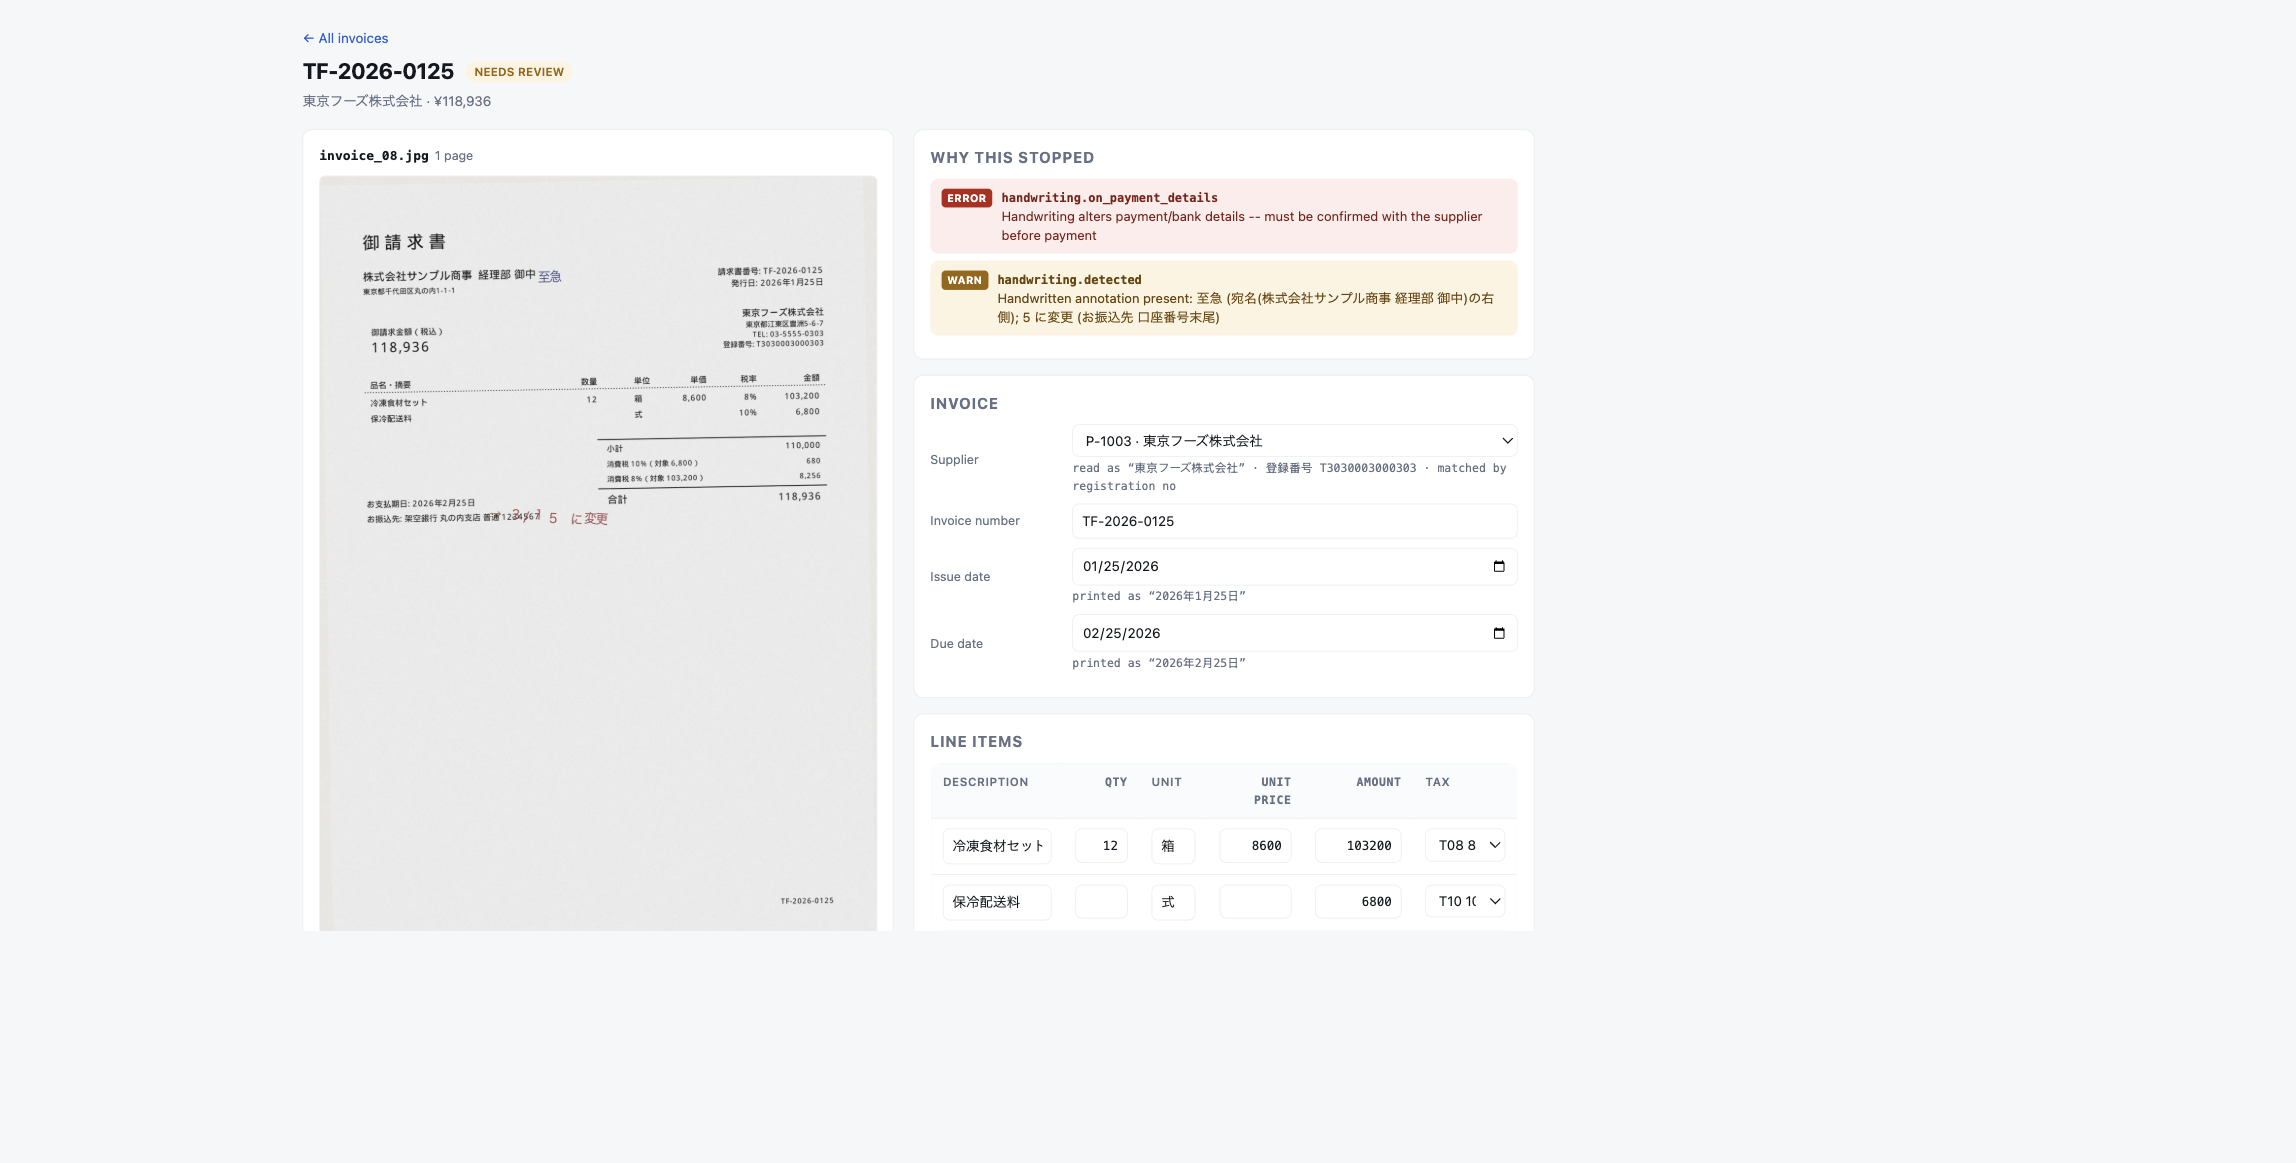
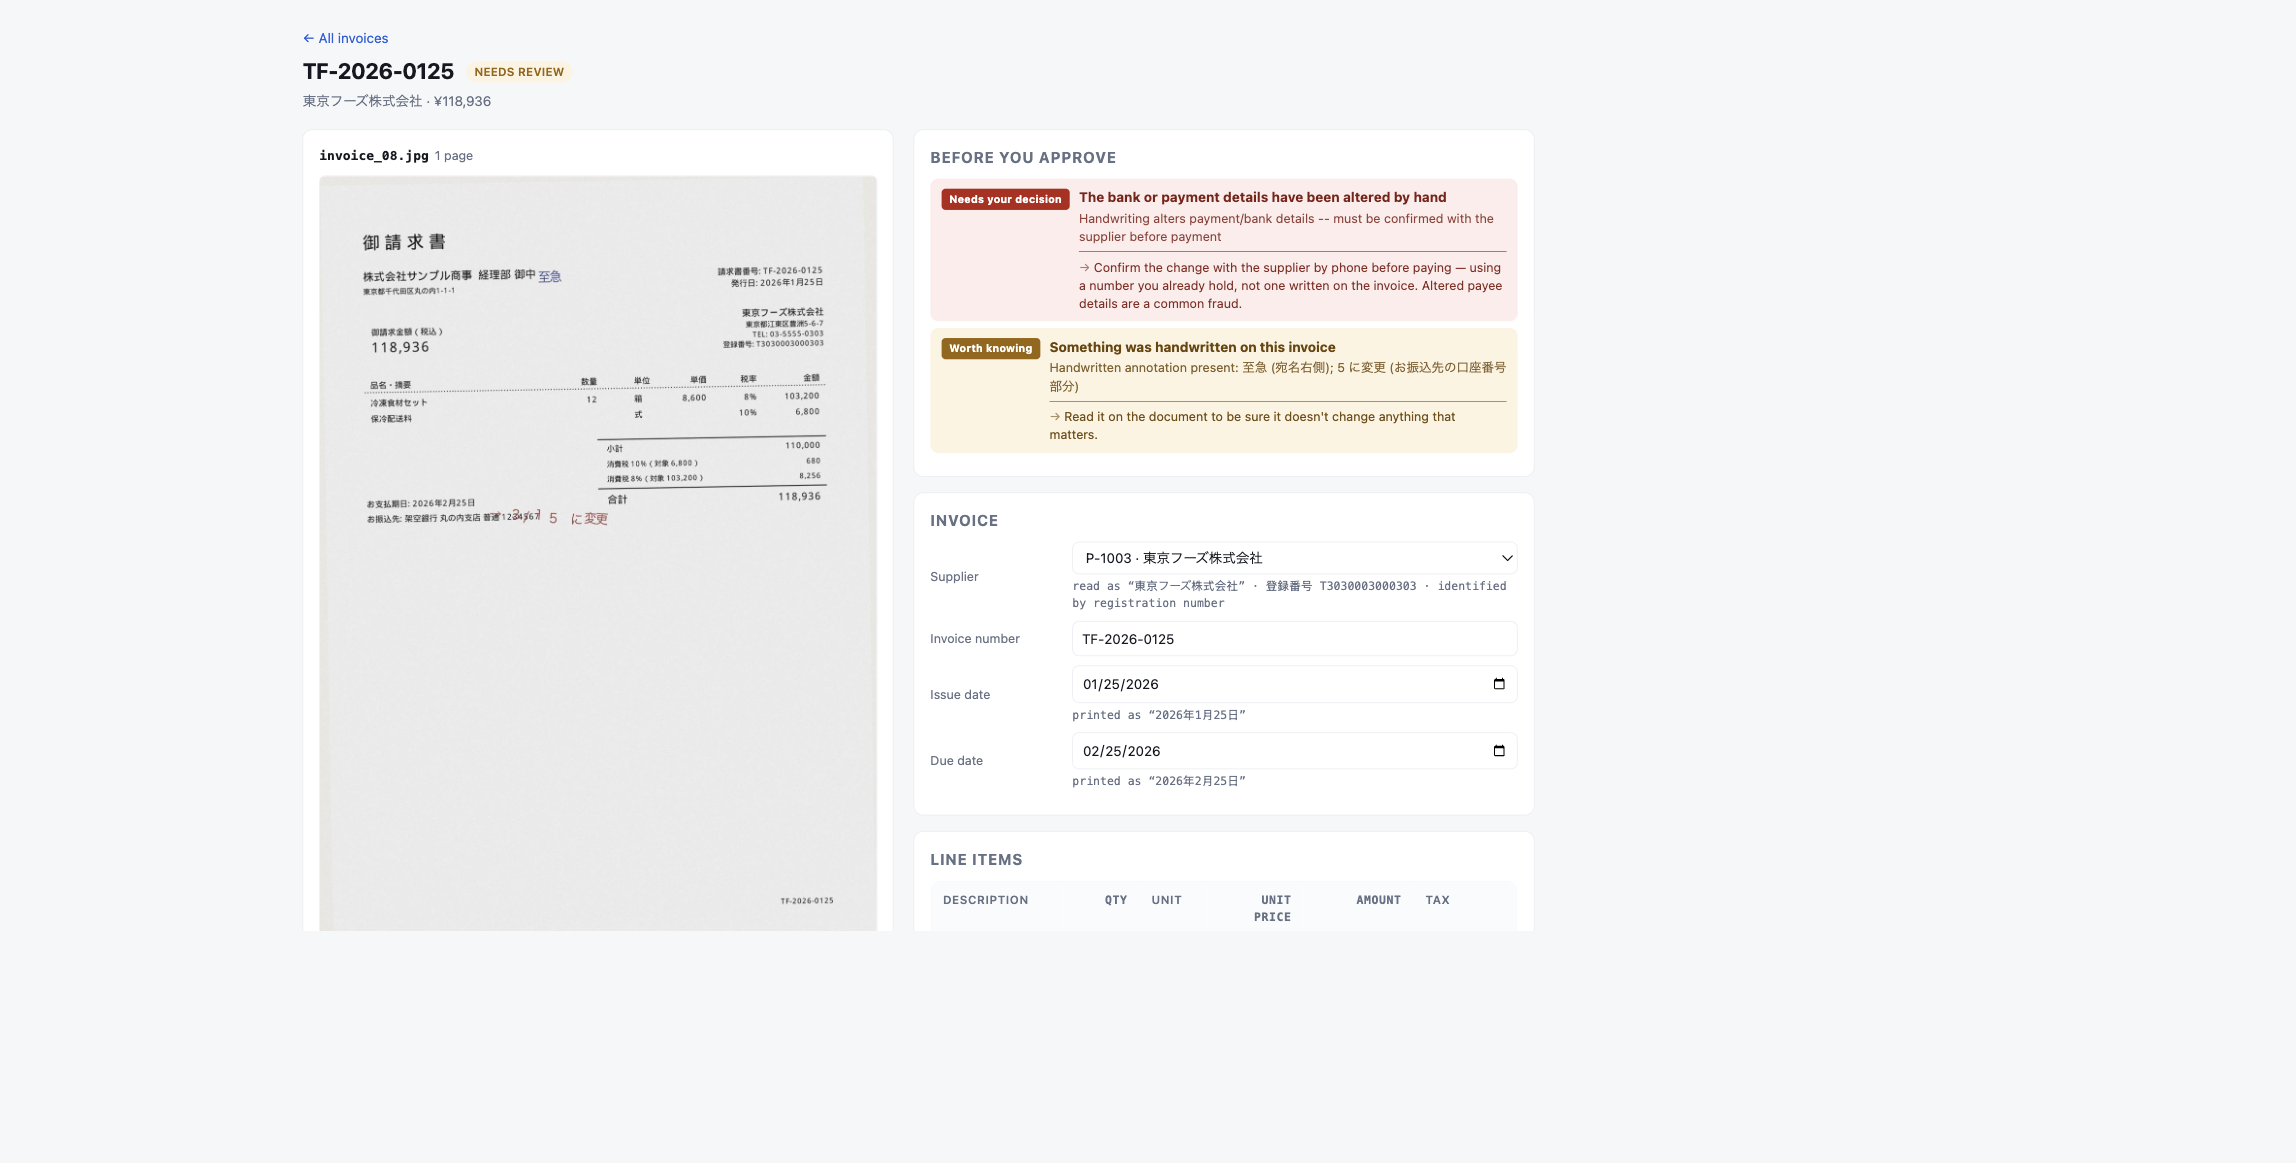
Refresh the screenshots and fix a stray double dash
The review screen shots now show the plain-language findings, and the dashboard
shot shows the reworded cards. Also replaces "--" with an em dash in the
handwriting message, which reaches the queue table verbatim.

diff --git a/backend/app/pipeline/verify.py b/backend/app/pipeline/verify.py
@@ -419,8 +419,8 @@ def run_checks(
             "handwriting.on_payment_details",
             Severity.ERROR,
             not invoice.handwriting_affects_payment,
-            "Handwriting alters payment/bank details -- must be confirmed with the "
-            "supplier before payment"
+            "Handwriting alters payment or bank details \u2014 confirm with the "
+            "supplier before paying"
             if invoice.handwriting_affects_payment
             else "No handwriting on payment details",
             {"notes": invoice.handwriting_notes}
